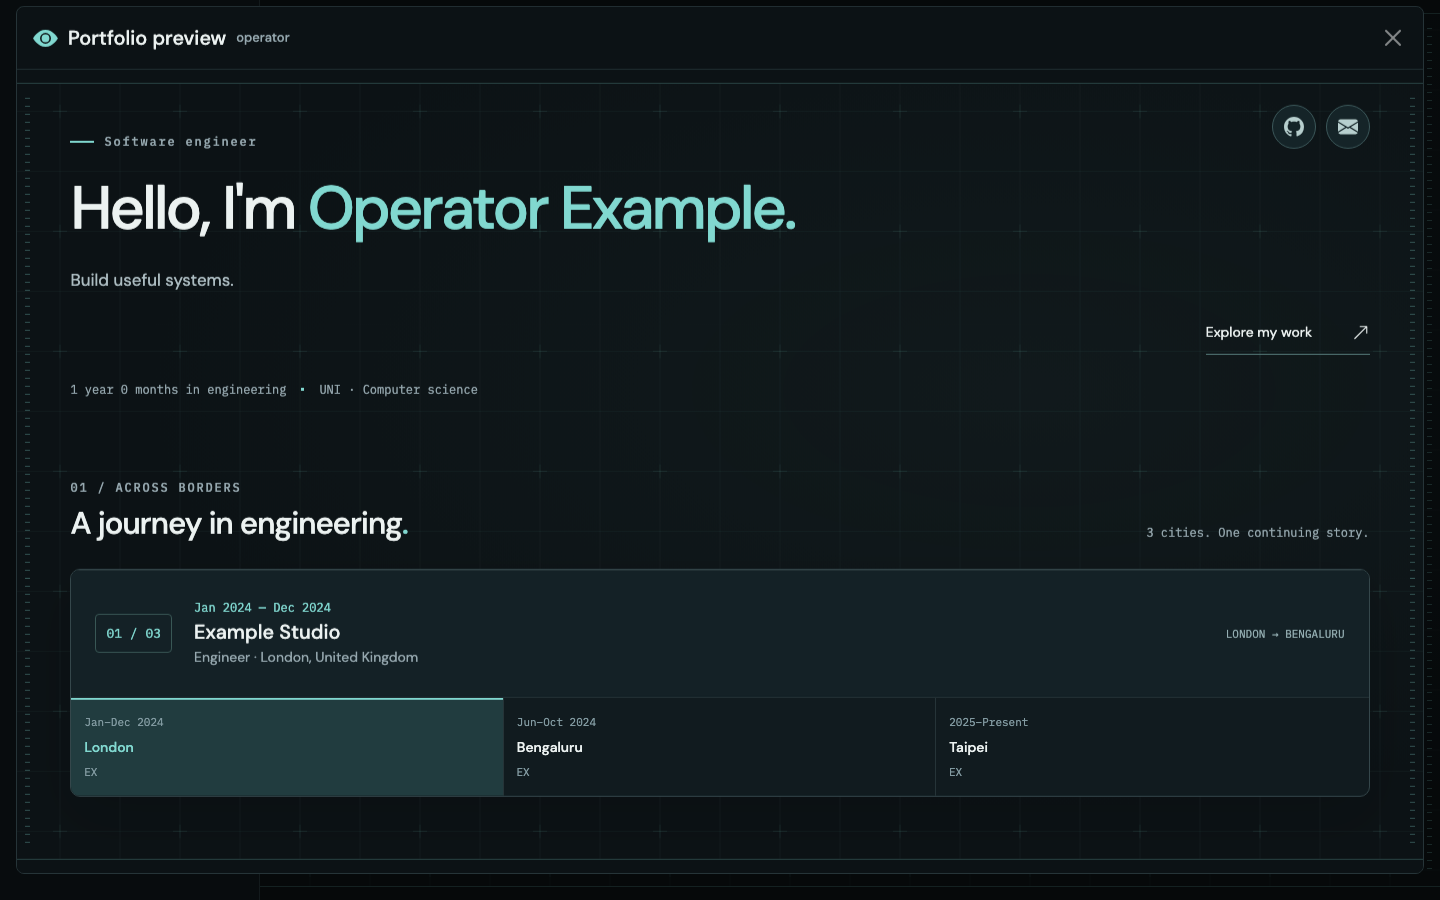
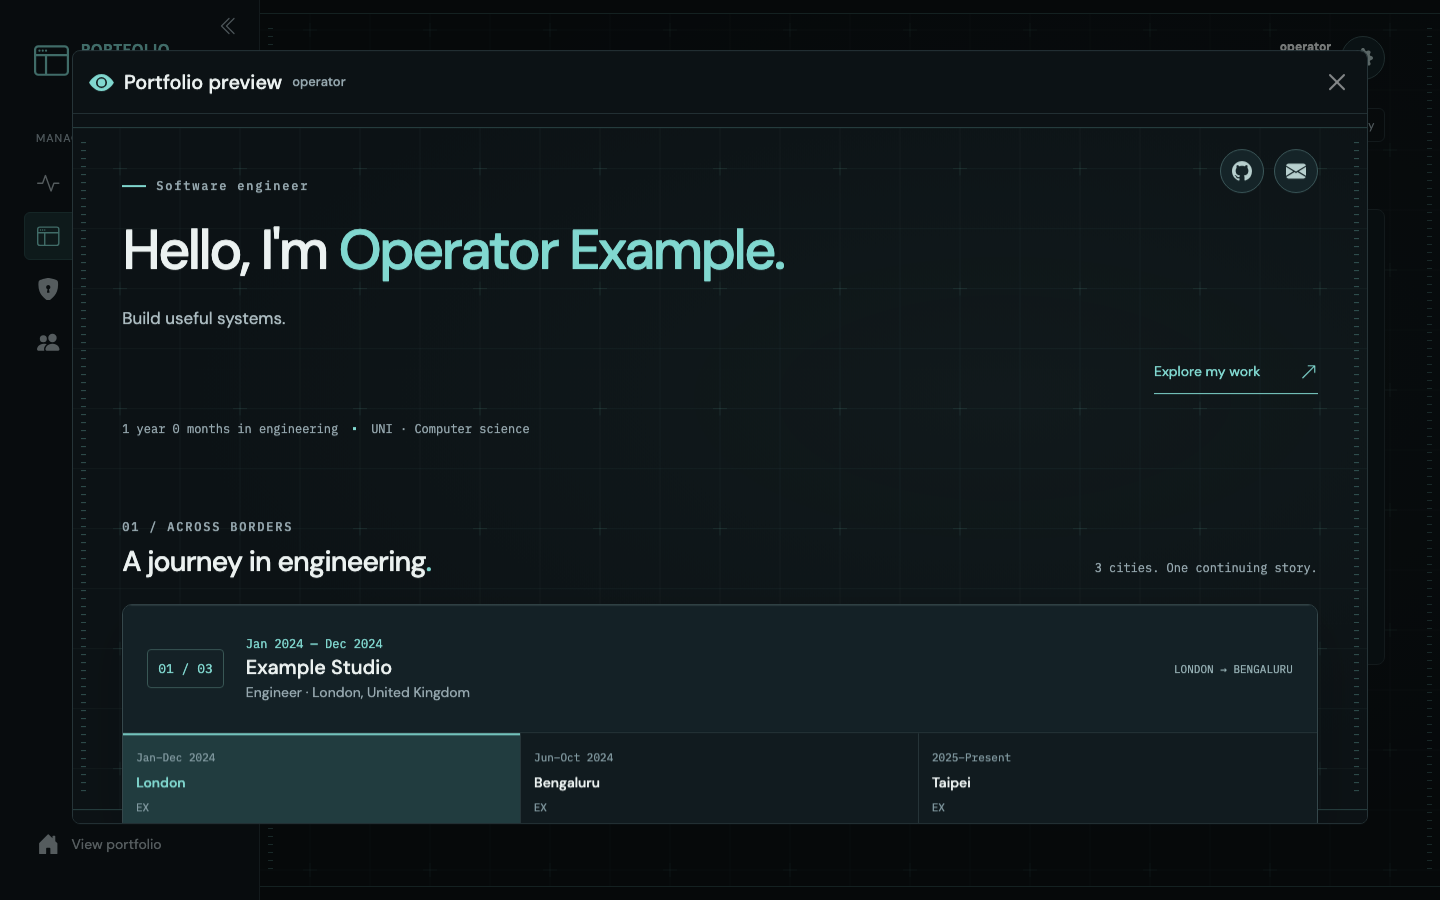
#style Reduce the portfolio preview modal size

diff --git a/frontend/src/pages/management/components/PortfolioPreview.module.css b/frontend/src/pages/management/components/PortfolioPreview.module.css
@@ -5,12 +5,12 @@
   --bs-modal-header-border-color: var(--border);
 }
 .viewport:global(.modal-dialog) {
-  width: calc(100vw - 32px);
-  max-width: 1920px;
-  margin: 16px auto;
+  width: 90vw;
+  max-width: 1440px;
+  margin: var(--bs-modal-margin) auto;
 }
 .content:global(.modal-content) {
-  height: calc(100dvh - 32px);
+  height: min(86dvh, calc(100dvh - 3.5rem));
   overflow: hidden;
 }
 .dialog :global(.modal-title) {

diff --git a/frontend/src/shared/ui/README.md b/frontend/src/shared/ui/README.md
@@ -945,9 +945,9 @@ export function DeleteDialog({
 
 ### Platform portfolio 預覽
 
-Platform 專用 Preview 眼睛位於 Edit 左側，使用 [PortfolioPreview](../../pages/management/components/PortfolioPreview.tsx)。XXL 最大 1920px，手機保留 8px 邊距；只有 iframe 文件捲動，管理頁路由、表格分頁／勾選與捲動位置不變。內容使用既有 PortfolioPage，沒有 Navigation menu，其他 portfolio 區段與樣式共用正常網頁。沒有網站時按鈕停用；未發布／停用擁有者由受保護 preview API 讀取；缺翻譯不回退其他帳號或語言。預覽自身的專案 Modal、分頁與技能展開維持原有流程。User／Role 不加這個入口。
+Platform 專用 Preview 眼睛位於 Edit 左側，使用 [PortfolioPreview](../../pages/management/components/PortfolioPreview.tsx)。桌面寬度為 viewport 的 90%、最大 1440px，高度為 86dvh，短視窗會額外保留上下邊距；手機保留 8px 邊距。只有 iframe 文件捲動，管理頁路由、表格分頁／勾選與捲動位置不變。內容使用既有 PortfolioPage，沒有 Navigation menu，其他 portfolio 區段與樣式共用正常網頁。沒有網站時按鈕停用；未發布／停用擁有者由受保護 preview API 讀取；缺翻譯不回退其他帳號或語言。預覽自身的專案 Modal、分頁與技能展開維持原有流程。User／Role 不加這個入口。
 
-| 桌面 XXL                                                                | 手機預覽                                                                    |
+| 桌面預覽                                                                | 手機預覽                                                                    |
 | ----------------------------------------------------------------------- | --------------------------------------------------------------------------- |
 | ![沿用完整 portfolio 區段與背景](data-table-docs/portfolio-preview.png) | ![無導覽欄的手機版 portfolio](data-table-docs/portfolio-preview-mobile.png) |
 
